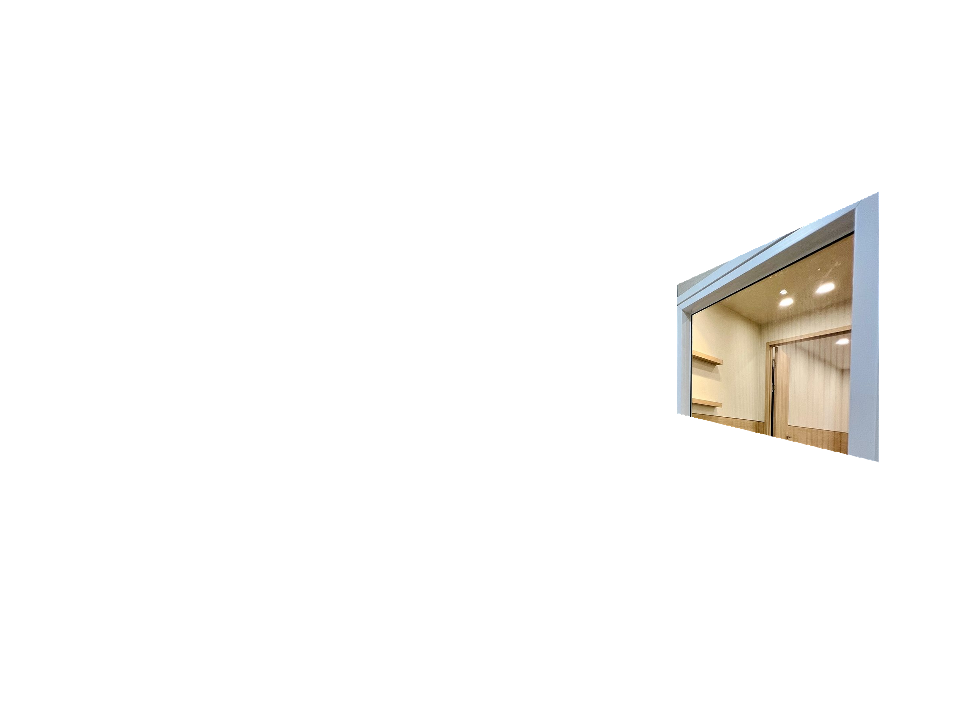
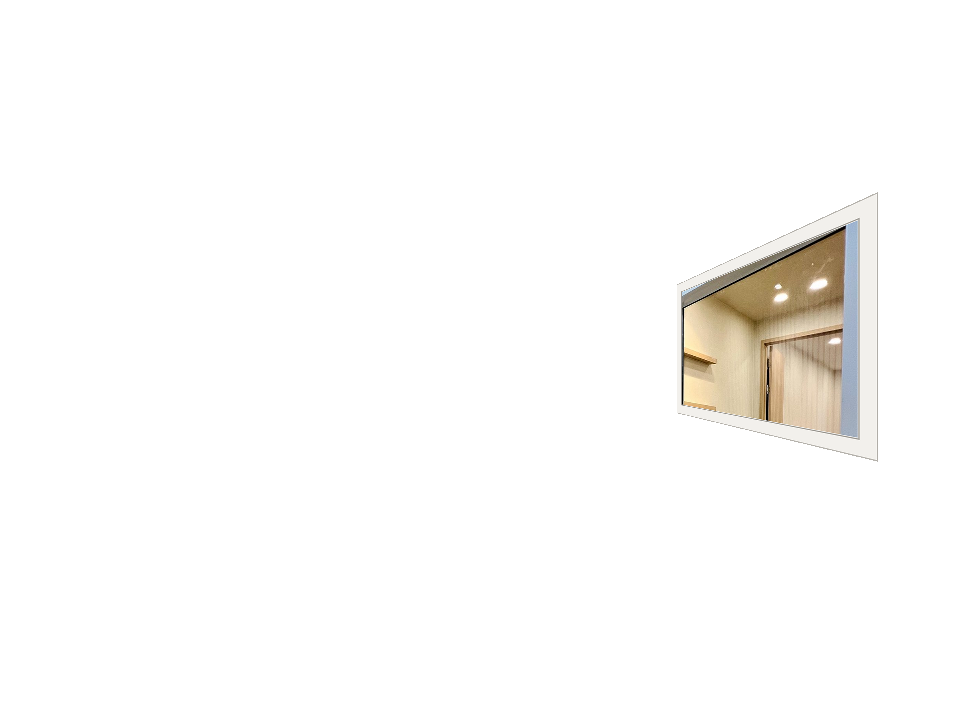
시창틀 상하좌우 폭 동일하게 30px 균일 프레임으로 보정

Changed region(s): [[0.6875, 0.275, 0.9375, 0.6417]]

diff --git a/assets/configurator.js b/assets/configurator.js
@@ -2349,9 +2349,9 @@ function photoHexToRgb(hex){
 const photoWinImgs = {};
 function preloadPhotoWins(){
   const map = {
-    '600x800': 'assets/win-600.png?v=3',
-    '800x800': 'assets/win-800.png?v=3',
-    '1200x800': 'assets/win-1200.png?v=3',
+    '600x800': 'assets/win-600.png?v=4',
+    '800x800': 'assets/win-800.png?v=4',
+    '1200x800': 'assets/win-1200.png?v=4',
     'double1200': 'assets/win-double.png',
     'rail_ceiling': 'assets/ceiling-rail.png?v=8',
     'slat_nocob': 'assets/slat-nocob.png?v=4',

diff --git a/configurator.html b/configurator.html
@@ -120,7 +120,7 @@
 
 <div class="toast" id="toast" role="status" aria-live="polite"></div>
 
-<script type="module" src="assets/configurator.js?v=20261122w"></script>
+<script type="module" src="assets/configurator.js?v=20261122x"></script>
 <noscript>
   <style>.panel-body{display:none}.panel-foot{display:none}</style>
   <p style="padding:20px">3D 견적 시뮬레이터는 자바스크립트가 필요합니다. 전화 상담 <a href="tel:01030015906">010-3001-5906</a> 으로 문의해 주세요.</p>
